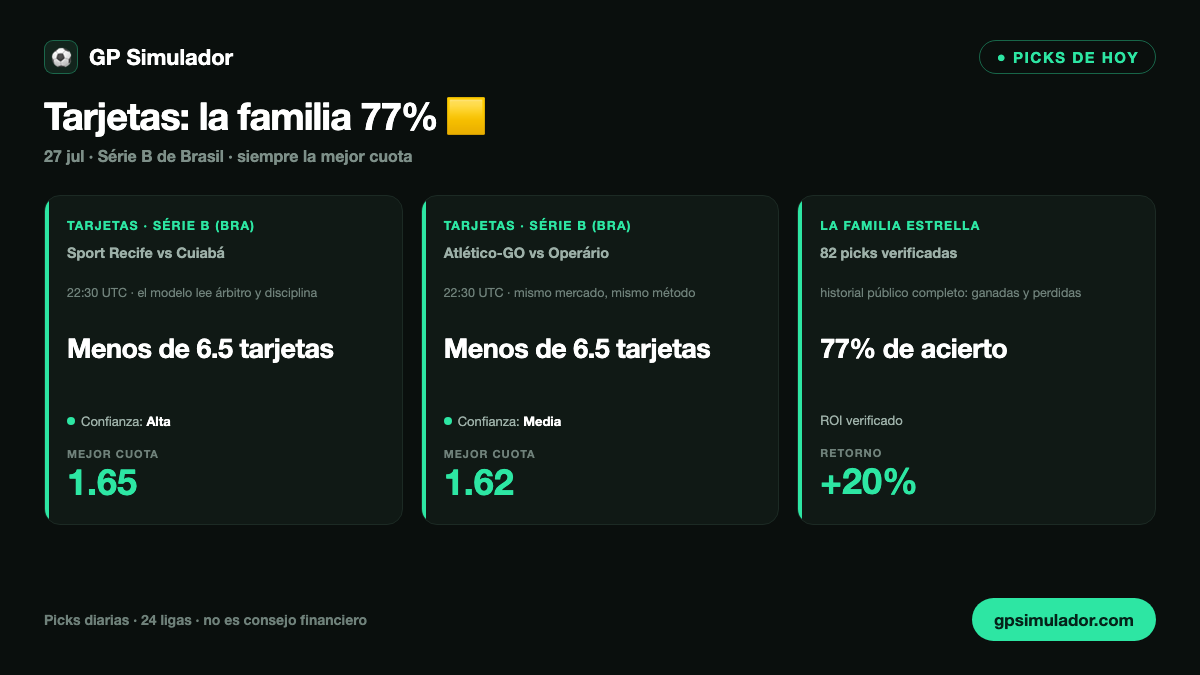
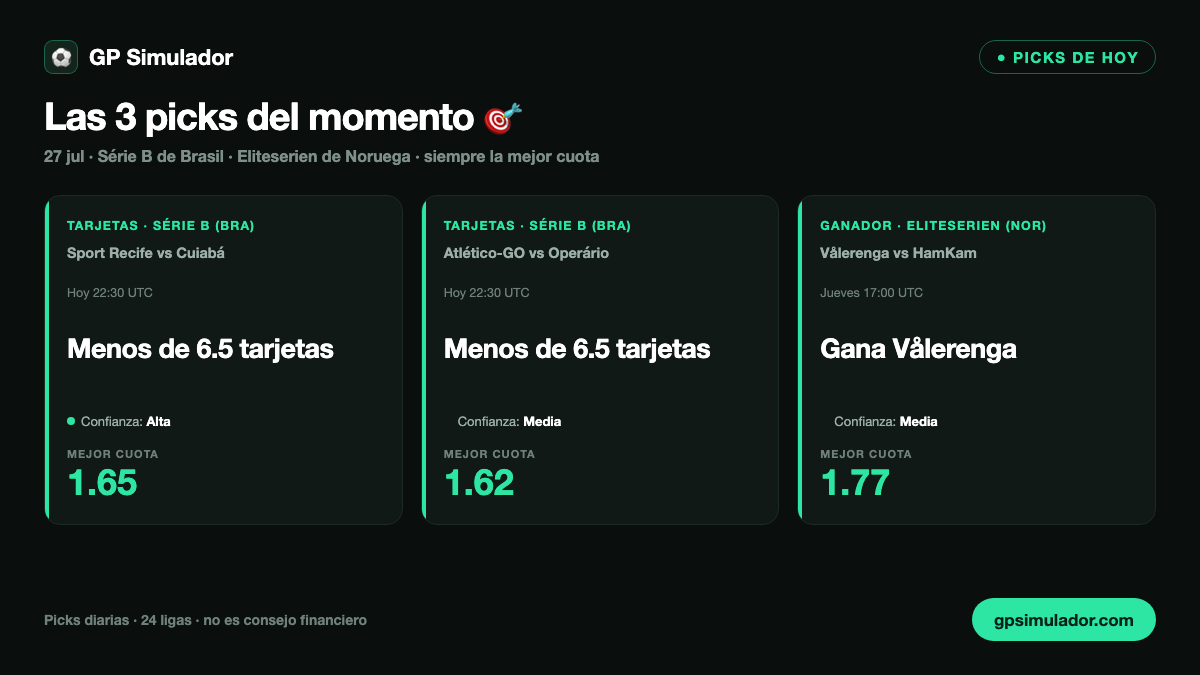
Contenido 27-jul v2: formato de siempre — 3 picks (2 tarjetas + 1X2 Valerenga)

diff --git a/ig-src/x-hoy0727-picks.html b/ig-src/x-hoy0727-picks.html
@@ -31,13 +31,13 @@ h1 { font-size: 38px; font-weight: 800; letter-spacing: -1px; margin: 18px 0 4px
     <div class="brand"><div class="logo">⚽</div>GP Simulador</div>
     <div class="round">● PICKS DE HOY</div>
   </div>
-  <h1>Tarjetas: la familia 77% 🟨</h1>
-  <div class="sub">27 jul · Série B de Brasil · siempre la mejor cuota</div>
+  <h1>Las 3 picks del momento 🎯</h1>
+  <div class="sub">27 jul · Série B de Brasil · Eliteserien de Noruega · siempre la mejor cuota</div>
   <div class="grid">
     <div class="card">
       <div class="fam">Tarjetas · Série B (BRA)</div>
       <div class="match">Sport Recife vs Cuiabá</div>
-      <div class="tesis">22:30 UTC · el modelo lee árbitro y disciplina</div>
+      <div class="tesis">Hoy 22:30 UTC</div>
       <div class="sel">Menos de 6.5 tarjetas</div>
       <div class="conf"><span class="dot h"></span>Confianza: <b>Alta</b></div>
       <div class="odds-l">MEJOR CUOTA</div><div class="odds">1.65</div>
@@ -45,18 +45,18 @@ h1 { font-size: 38px; font-weight: 800; letter-spacing: -1px; margin: 18px 0 4px
     <div class="card">
       <div class="fam">Tarjetas · Série B (BRA)</div>
       <div class="match">Atlético-GO vs Operário</div>
-      <div class="tesis">22:30 UTC · mismo mercado, mismo método</div>
+      <div class="tesis">Hoy 22:30 UTC</div>
       <div class="sel">Menos de 6.5 tarjetas</div>
-      <div class="conf"><span class="dot h"></span>Confianza: <b>Media</b></div>
+      <div class="conf"><span class="dot "></span>Confianza: <b>Media</b></div>
       <div class="odds-l">MEJOR CUOTA</div><div class="odds">1.62</div>
     </div>
     <div class="card">
-      <div class="fam">La familia estrella</div>
-      <div class="match">82 picks verificadas</div>
-      <div class="tesis">historial público completo: ganadas y perdidas</div>
-      <div class="sel">77% de acierto</div>
-      <div class="conf">ROI verificado</div>
-      <div class="odds-l">RETORNO</div><div class="odds">+20%</div>
+      <div class="fam">Ganador · Eliteserien (NOR)</div>
+      <div class="match">Vålerenga vs HamKam</div>
+      <div class="tesis">Jueves 17:00 UTC</div>
+      <div class="sel">Gana Vålerenga</div>
+      <div class="conf"><span class="dot "></span>Confianza: <b>Media</b></div>
+      <div class="odds-l">MEJOR CUOTA</div><div class="odds">1.77</div>
     </div>
   </div>
   <div class="foot"><div class="n">Picks diarias · 24 ligas · no es consejo financiero</div><div class="pill">gpsimulador.com</div></div>

diff --git a/ig-src/x-hoy0727-picks-en.html b/ig-src/x-hoy0727-picks-en.html
@@ -31,13 +31,13 @@ h1 { font-size: 38px; font-weight: 800; letter-spacing: -1px; margin: 18px 0 4px
     <div class="brand"><div class="logo">⚽</div>GP Simulador</div>
     <div class="round">● TODAY'S PICKS</div>
   </div>
-  <h1>Cards: the 77% family 🟨</h1>
-  <div class="sub">Jul 27 · Brazil Série B · always the best odds</div>
+  <h1>The 3 picks right now 🎯</h1>
+  <div class="sub">Jul 27 · Brazil Série B · Norway Eliteserien · always the best odds</div>
   <div class="grid">
     <div class="card">
       <div class="fam">Cards · Série B (BRA)</div>
       <div class="match">Sport Recife vs Cuiabá</div>
-      <div class="tesis">22:30 UTC · the model reads referee and discipline</div>
+      <div class="tesis">Today 22:30 UTC</div>
       <div class="sel">Under 6.5 cards</div>
       <div class="conf"><span class="dot h"></span>Confidence: <b>High</b></div>
       <div class="odds-l">BEST ODDS</div><div class="odds">1.65</div>
@@ -45,18 +45,18 @@ h1 { font-size: 38px; font-weight: 800; letter-spacing: -1px; margin: 18px 0 4px
     <div class="card">
       <div class="fam">Cards · Série B (BRA)</div>
       <div class="match">Atlético-GO vs Operário</div>
-      <div class="tesis">22:30 UTC · same market, same method</div>
+      <div class="tesis">Today 22:30 UTC</div>
       <div class="sel">Under 6.5 cards</div>
-      <div class="conf"><span class="dot h"></span>Confidence: <b>Medium</b></div>
+      <div class="conf"><span class="dot "></span>Confidence: <b>Medium</b></div>
       <div class="odds-l">BEST ODDS</div><div class="odds">1.62</div>
     </div>
     <div class="card">
-      <div class="fam">Our sharpest family</div>
-      <div class="match">82 verified picks</div>
-      <div class="tesis">full public track record: wins and losses</div>
-      <div class="sel">77% hit rate</div>
-      <div class="conf">Verified ROI</div>
-      <div class="odds-l">RETURN</div><div class="odds">+20%</div>
+      <div class="fam">Winner · Eliteserien (NOR)</div>
+      <div class="match">Vålerenga vs HamKam</div>
+      <div class="tesis">Thursday 17:00 UTC</div>
+      <div class="sel">Vålerenga to win</div>
+      <div class="conf"><span class="dot "></span>Confidence: <b>Medium</b></div>
+      <div class="odds-l">BEST ODDS</div><div class="odds">1.77</div>
     </div>
   </div>
   <div class="foot"><div class="n">Daily picks · 24 leagues · not financial advice</div><div class="pill">gpsimulador.com</div></div>

diff --git a/ig-src/story-hoy0727-picks.html b/ig-src/story-hoy0727-picks.html
@@ -30,25 +30,25 @@ h1 { font-size: 66px; font-weight: 800; letter-spacing: -2px; margin-bottom: 10p
 </style></head>
 <body>
   <div class="brand"><div class="badge">⚽</div><div class="bname">GP Simulador</div><div class="tag">● HOY</div></div>
-  <h1>Tarjetas: la familia 77% 🟨</h1>
-  <div class="sub">27 jul · Série B de Brasil · nuestra familia más precisa</div>
+  <h1>Las 3 picks del momento 🎯</h1>
+  <div class="sub">27 jul · Série B de Brasil · Eliteserien de Noruega</div>
   <div class="pick">
     <div class="fam">Tarjetas · Série B (BRA)</div>
-    <div class="note">Sport Recife vs Cuiabá · 22:30 UTC</div>
+    <div class="note">Sport Recife vs Cuiabá · hoy 22:30 UTC</div>
     <div class="bet">Menos de 6.5 tarjetas</div>
     <div class="row"><div class="conf"><span class="dot high"></span>Confianza: <b>Alta</b></div><div class="odds"><div class="ol">Mejor cuota</div><div class="ov">1.65</div></div></div>
   </div>
   <div class="pick">
     <div class="fam">Tarjetas · Série B (BRA)</div>
-    <div class="note">Atlético-GO vs Operário · 22:30 UTC</div>
+    <div class="note">Atlético-GO vs Operário · hoy 22:30 UTC</div>
     <div class="bet">Menos de 6.5 tarjetas</div>
     <div class="row"><div class="conf"><span class="dot"></span>Confianza: <b>Media</b></div><div class="odds"><div class="ol">Mejor cuota</div><div class="ov">1.62</div></div></div>
   </div>
   <div class="pick">
-    <div class="fam">Por qué tarjetas</div>
-    <div class="note">Nuestra familia más precisa, con historial público completo</div>
-    <div class="bet">77% de acierto</div>
-    <div class="row"><div class="conf">82 picks verificadas · ganadas y perdidas, todas publicadas</div><div class="odds"><div class="ol">ROI</div><div class="ov">+20%</div></div></div>
+    <div class="fam">Ganador · Eliteserien (NOR)</div>
+    <div class="note">Vålerenga vs HamKam · jueves 17:00 UTC</div>
+    <div class="bet">Gana Vålerenga</div>
+    <div class="row"><div class="conf"><span class="dot"></span>Confianza: <b>Media</b></div><div class="odds"><div class="ol">Mejor cuota</div><div class="ov">1.77</div></div></div>
   </div>
   <div class="foot">
     <div class="small">Picks diarias · 24 ligas · no es consejo financiero</div>
